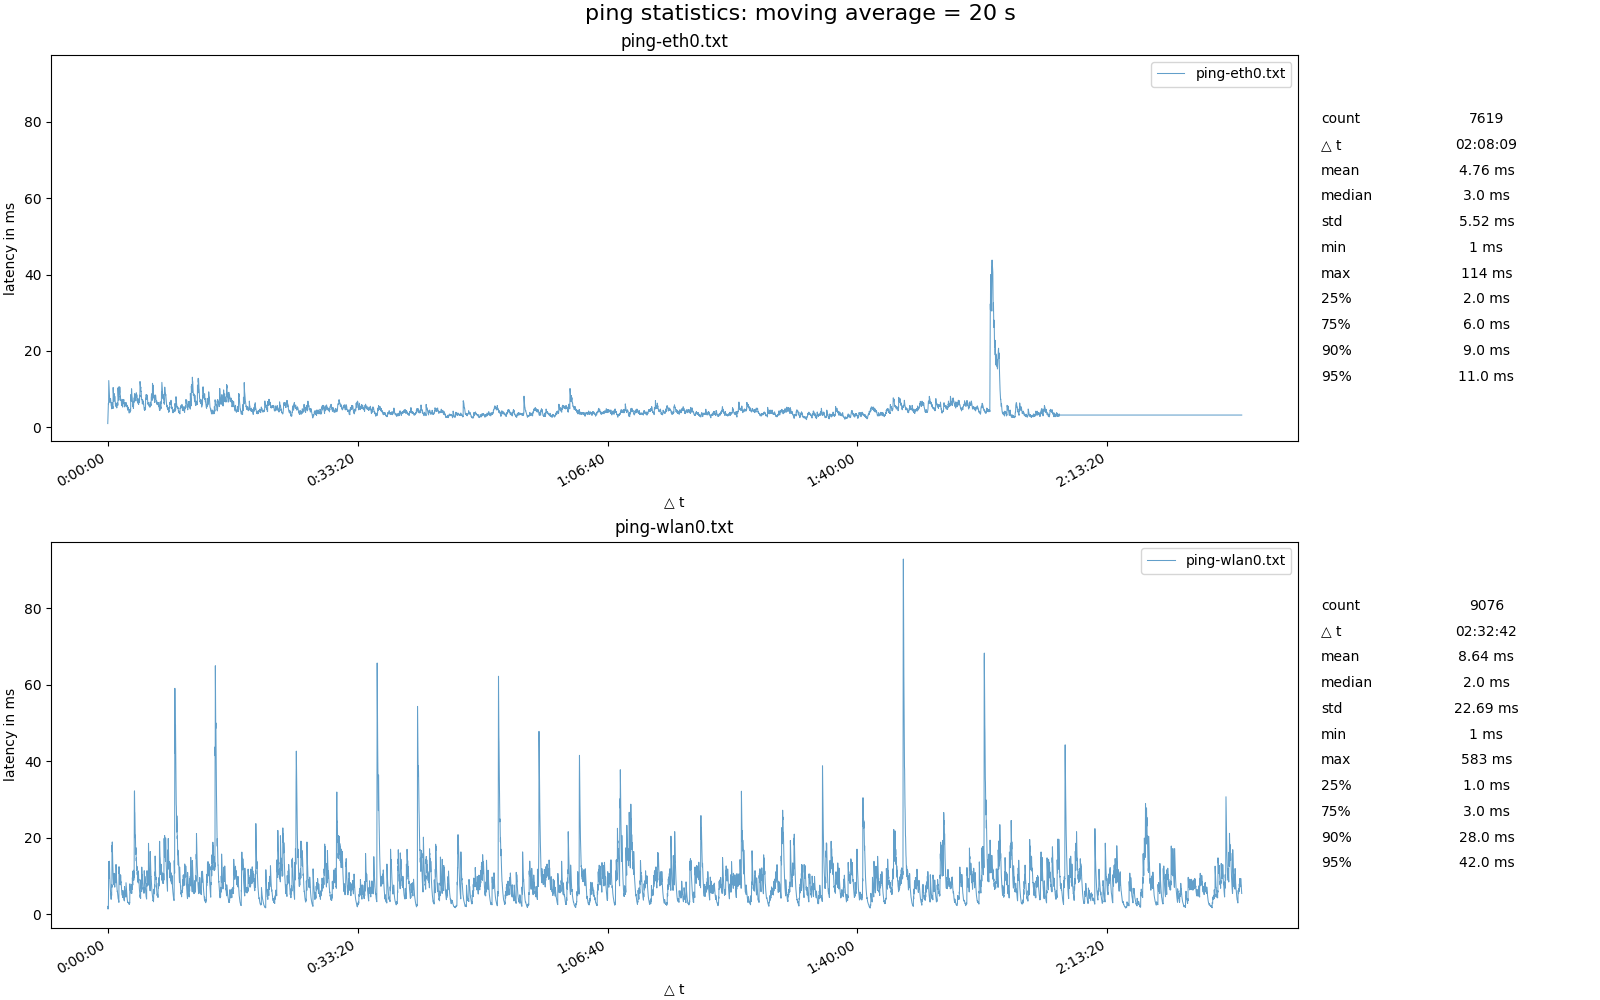
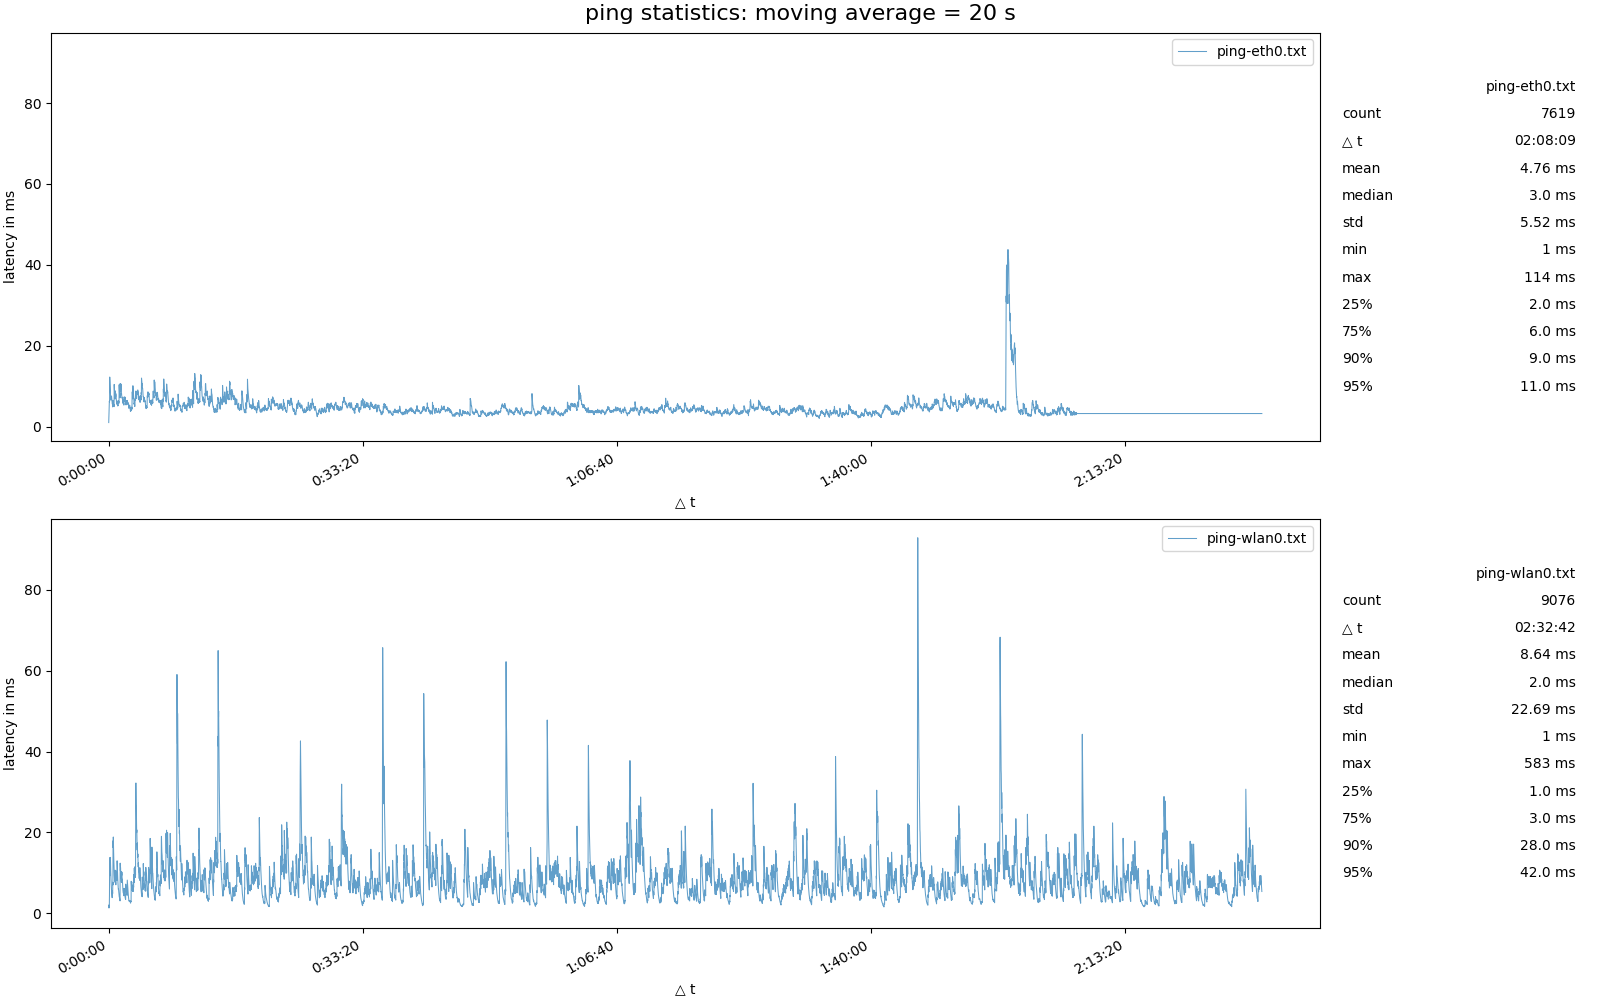
refactored plot and table generation

diff --git a/ping-analysis.py b/ping-analysis.py
@@ -20,10 +20,10 @@ def main():
     plots = []
     if args.plot in ["single", "both"]:
         # plots.append(plot_single(latencies, args.ma_window))
-        plots.append(create_plot(latencies, args.ma_window, "single"))
+        plots.append(plot_latencies(latencies, args.ma_window, "single"))
     if args.plot in ["multi", "both"]:
         # plots.append(plot_multi(latencies, args.ma_window))
-        plots.append(create_plot(latencies, args.ma_window, "multi"))
+        plots.append(plot_latencies(latencies, args.ma_window, "multi"))
 
     if args.out and len(args.out) != len(plots):
         sys.exit("error: number of plots doesnt match number of out-files specified")
@@ -59,8 +59,9 @@ def parse_args() -> argparse.Namespace:
     parser.add_argument(
         "--ma-window", 
         default = 20, 
-        type = int,
+        type = float,
         help = "moving-average window in seconds; default = 20"
+        # = ewm_window internally
     )
     return parser.parse_args()
 
@@ -126,7 +127,7 @@ def describe(df: pd.DataFrame, include = 'all') -> pd.DataFrame:
         }
     return pd.DataFrame.from_dict(desc)
 
-def create_plot(latencies: pd.DataFrame, ewm_window: int = 20, plots: str = "single") -> plt:
+def plot_latencies(latencies: pd.DataFrame, ewm_window: float = 20, plots: str = "single") -> plt:
     # TODO: dont plot NaN values as 0
     desc = describe(latencies)
 
@@ -137,67 +138,59 @@ def create_plot(latencies: pd.DataFrame, ewm_window: int = 20, plots: str = "sin
     
     fig, axes = plt.subplots(
         nrows = n, ncols = 2,
-        figsize = (16, 5 * n), 
+        figsize = (16, 5 * n), # width = 16 inches, height = 5 inches per row
         constrained_layout = True, 
         sharey = True,
-        gridspec_kw={"width_ratios": [8, 1]}
+        gridspec_kw={"width_ratios": [9, 1]}
     )
-
+    
     fig.suptitle(f"ping statistics: moving average = {ewm_window} s", fontsize = 16)
-    xformatter = ticker.FuncFormatter(timeTicks)
 
     linewidth = 0.75
 
     # single chart
     if n == 1: 
-        latencies.ewm(span = ewm_window, ignore_na = True).mean().plot(
-            ax = axes[0], 
-            alpha = 0.7,
-            linewidth = linewidth,
+        create_plot(axes[0], latencies, ewm_window, linewidth)
+        create_table(axes[1], desc)
 
-        )
-        axes[0].set(xlabel = "△ t", ylabel = "latency in ms")
-        axes[0].xaxis.set_major_formatter(xformatter)
-
-        # TODO: table creation as seperate function
-        tab = axes[1].table( 
-            cellText = desc.values, 
-            rowLabels = desc.index, 
-            colLabels = desc.columns,
-            loc = "center", 
-            cellLoc = "center",
-            edges = "open"
-        )
-        tab.scale(1.4, 1.4)
-        axes[1].axis("off")
     # multiple charts
     else: 
         cols = list(latencies.columns.values)
         for i, col in enumerate(cols):
-            latencies[col].ewm(span = ewm_window, ignore_na = True).mean().plot(
-                ax = axes[i, 0], 
-                alpha = 0.7, 
-                linewidth = linewidth
-            )
-            axes[i, 0].xaxis.set_major_formatter(xformatter)
-            axes[i, 0].set(xlabel = "△ t", ylabel = "latency in ms", title = col)
-            axes[i, 0].legend()
-            
-            colinfo = pd.DataFrame(desc[col])
-            # TODO: table creation as seperate function
-            tab = axes[i, 1].table( 
-                cellText = colinfo.values, 
-                rowLabels = colinfo.index, 
-                loc = "center", 
-                cellLoc = "center",
-                edges = "open"
-            )
-            tab.scale(1.4, 1.4)
-            axes[i, 1].axis("off")
-    
+            create_plot(axes[i, 0], latencies[col], ewm_window, linewidth)
+            create_table(axes[i, 1], pd.DataFrame(desc[col]))
+
     return plt
 
-def timeTicks(x, pos):
+def create_plot(axis: plt.axis, df: pd.DataFrame, ewm_window: float = 20, linewidth: int = 0.75) -> plt.plot:
+    plot = df.ewm(span = ewm_window, ignore_na = True).mean().plot(
+        ax = axis, 
+        alpha = 0.7, 
+        linewidth = linewidth
+    )
+    axis.set(xlabel = "△ t", ylabel = "latency in ms")
+    axis.xaxis.set_major_formatter(ticker.FuncFormatter(time_ticks))
+    axis.legend()
+
+    return plot
+
+def create_table(axis: plt.axis, df: pd.DataFrame) -> plt.table:
+    tab = axis.table( 
+        cellText = df.values, 
+        rowLabels = df.index, 
+        colLabels = df.columns,
+        loc = "center", 
+        cellLoc = "right",
+        colLoc = "right",
+        edges = "open",
+        fontsize = 12
+    )
+    tab.scale(1.4, 1.4)
+    axis.axis("off")
+    
+    return tab
+
+def time_ticks(x, pos):
     return str(datetime.timedelta(seconds=x))
 
 if __name__ ==  "__main__":

diff --git a/README.md b/README.md
@@ -3,15 +3,14 @@ A simple script to analyze and display ping statistics from one or more ping tra
 
 ## Usage
     $ python3 .\ping-analysis.py -h
-    usage: ping-analysis.py [-h] [-p {single,mult,both}] [-o OUT [OUT ...]] [--ma-window MA_WINDOW]
-                            file [file ...]
+    usage: ping-analysis.py [-h] [-p {single,multi,both}] [-o OUT [OUT ...]] [--ma-window MA_WINDOW] file [file ...]
 
     positional arguments:
     file                  one or more files to be read
 
     options:
     -h, --help            show this help message and exit
-    -p {single,multi,both}, --plot {single,mult,both}
+    -p {single,multi,both}, --plot {single,multi,both}
                             plot type: (single|multi|both); default = single
     -o OUT [OUT ...], --out OUT [OUT ...]
                             save plot to file; enter two paths when using "-p both"
